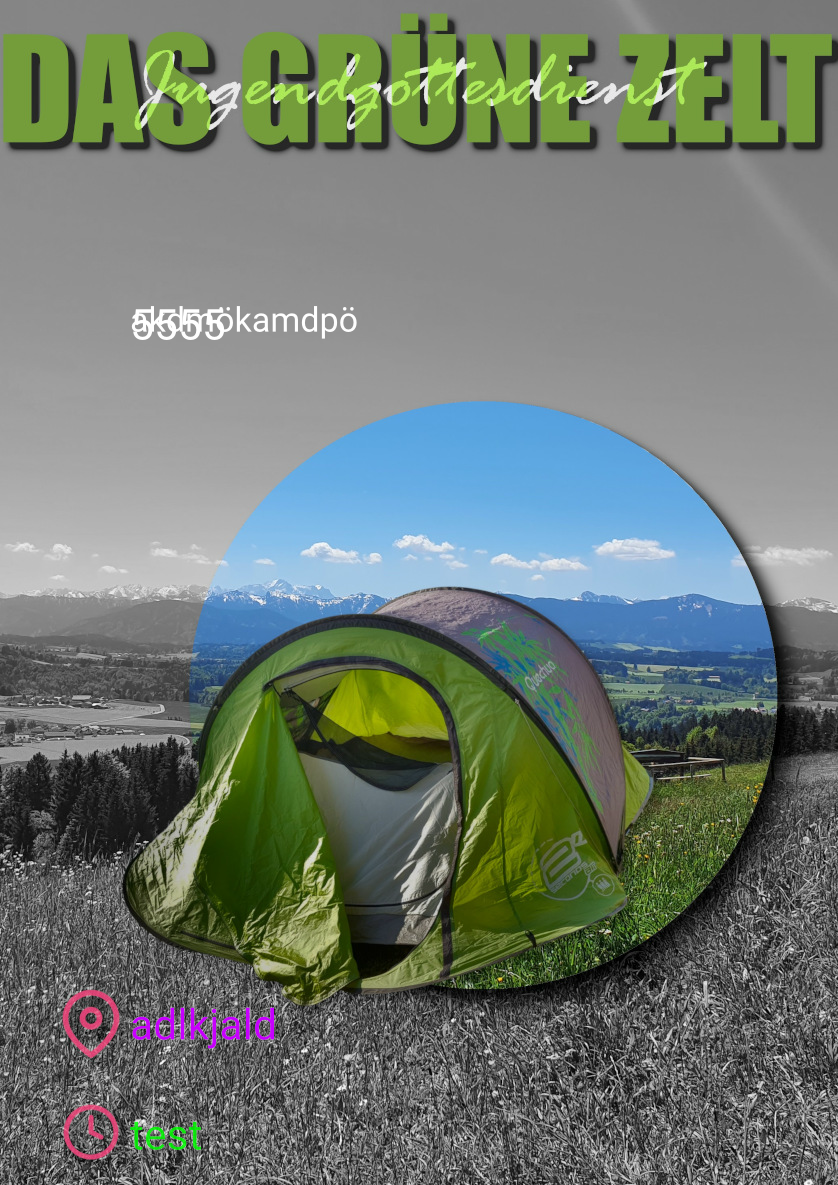
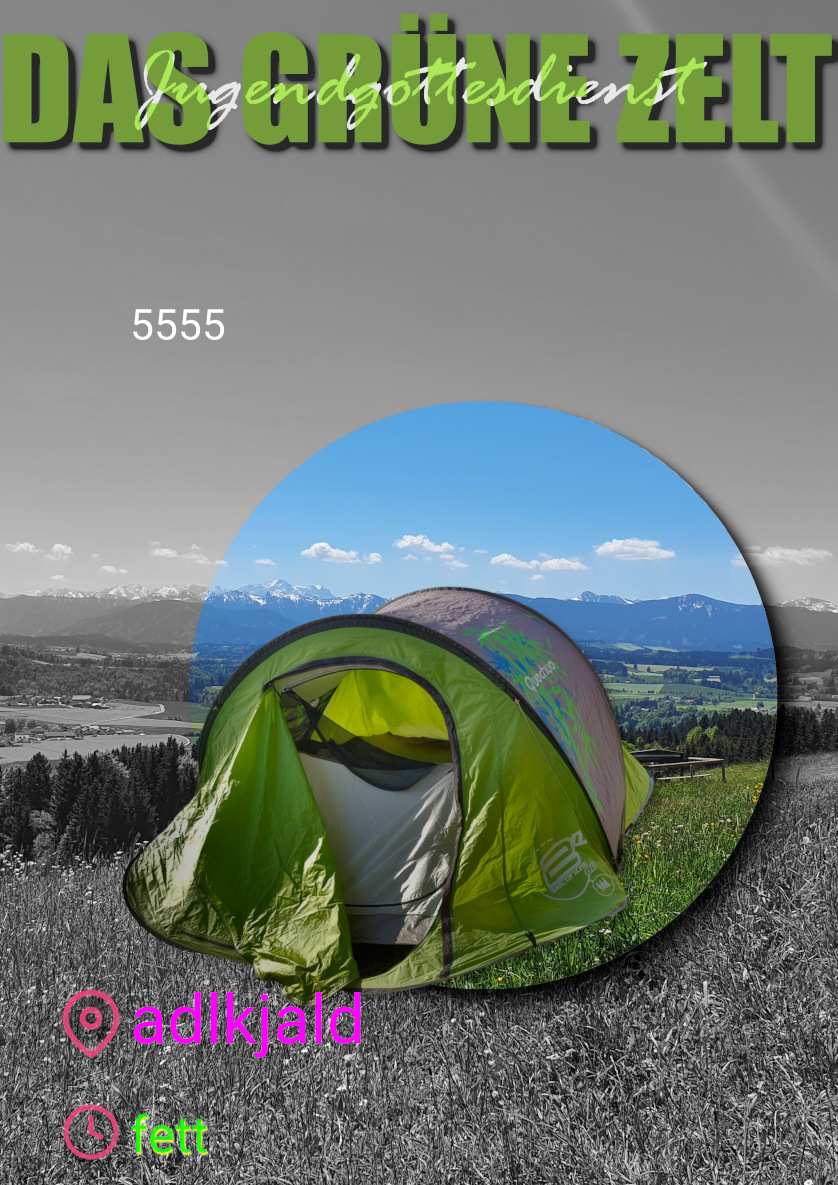
Update

Changed region(s): [[0.1551, 0.843, 0.4344, 0.9055], [0.1551, 0.2498, 0.4344, 0.281], [0.1551, 0.9367, 0.2482, 0.9992]]

diff --git a/src/main.rs b/src/main.rs
@@ -3,15 +3,18 @@ extern crate rocket;
 extern crate imageproc;
 
 use ab_glyph::FontArc;
+use image::imageops::blur;
 use image::imageops::FilterType::Nearest;
 use image::imageops::{overlay, rotate180_in};
 use image::io::Reader as ImageReader;
+use image::DynamicImage::*;
 use image::GenericImage;
 use image::{ImageBuffer, Pixel, RgbImage, Rgba, RgbaImage};
 use imageproc::drawing::{draw_text_mut, Canvas};
 use imageproc::geometric_transformations::*;
 use rocket::fs::NamedFile;
 use rocket::http::ext;
+use rocket::response::content;
 use std::io::Read;
 use std::path::Path;
 
@@ -69,13 +72,13 @@ async fn index(
         // create layer
         let mut layer = RgbaImage::from_pixel(width, height, Rgba([255, 255, 255, 0]));
         // draw text by json values
-        let scale: f32 = content["size"].to_string().parse().unwrap();
+        let scale: f32 = content["size"].to_string().parse().unwrap_or(50.0);
         let r: u8 = content["color"][0].to_string().parse().unwrap_or(255);
         let g: u8 = content["color"][1].to_string().parse().unwrap_or(255);
         let b: u8 = content["color"][2].to_string().parse().unwrap_or(255);
         let a: u8 = content["color"][3].to_string().parse().unwrap_or(255);
-        let x = content["position"][0].to_string().parse().unwrap();
-        let y = content["position"][1].to_string().parse().unwrap();
+        let x = content["position"][0].to_string().parse().unwrap_or(0);
+        let y = content["position"][1].to_string().parse().unwrap_or(0);
         let font = content["font"].to_string();
         let font = match font.as_str() {
             "Roboto" => roboto.clone(),
@@ -107,7 +110,53 @@ async fn index(
             &text,
         );
 
-        // overlay layer on background
+        // blur layer
+        if content["shadow"].is_array() {
+            let mut shadowlayer = RgbaImage::from_pixel(width, height, Rgba([255, 255, 255, 0]));
+
+            let shadow = content["shadow"].as_array().unwrap();
+            let xoffset = shadow[0].to_string().parse().unwrap_or(0);
+            let yoffset = shadow[1].to_string().parse().unwrap_or(0);
+            let sigma = shadow[2].to_string().parse().unwrap_or(0.0);
+            let color = shadow[3].as_array().unwrap();
+            let color = [
+                color[0].to_string().parse().unwrap_or(0),
+                color[1].to_string().parse().unwrap_or(0),
+                color[2].to_string().parse().unwrap_or(0),
+                color[3].to_string().parse().unwrap_or(0),
+            ];
+            draw_text_mut(
+                &mut shadowlayer,
+                image::Rgba(color),
+                x + xoffset,
+                y + yoffset,
+                scale,
+                &font,
+                &text,
+            );
+
+            if content["rotate"].is_u64() {
+                let theta: u64 = content["rotate"].to_string().parse().unwrap_or(0);
+                let theta = theta as f32 * std::f32::consts::PI / 180.0;
+                shadowlayer = rotate(
+                    &shadowlayer,
+                    (x as f32, y as f32),
+                    theta,
+                    Interpolation::Bicubic,
+                    Rgba([0, 0, 0, 0]),
+                );
+            }
+
+            let shadowlayer = blur(&shadowlayer, sigma);
+            overlay(&mut image, &shadowlayer, 0, 0);
+        }
+
+        if content["rotate"].is_u64() {
+            let theta: u64 = content["rotate"].to_string().parse().unwrap_or(0);
+            let theta = theta as f32 * std::f32::consts::PI / 180.0;
+            layer = rotate(&layer, (x as f32, y as f32), theta, Interpolation::Bicubic, Rgba([0, 0, 0, 0]));
+        }
+
         overlay(&mut image, &layer, 0, 0);
     }
 
